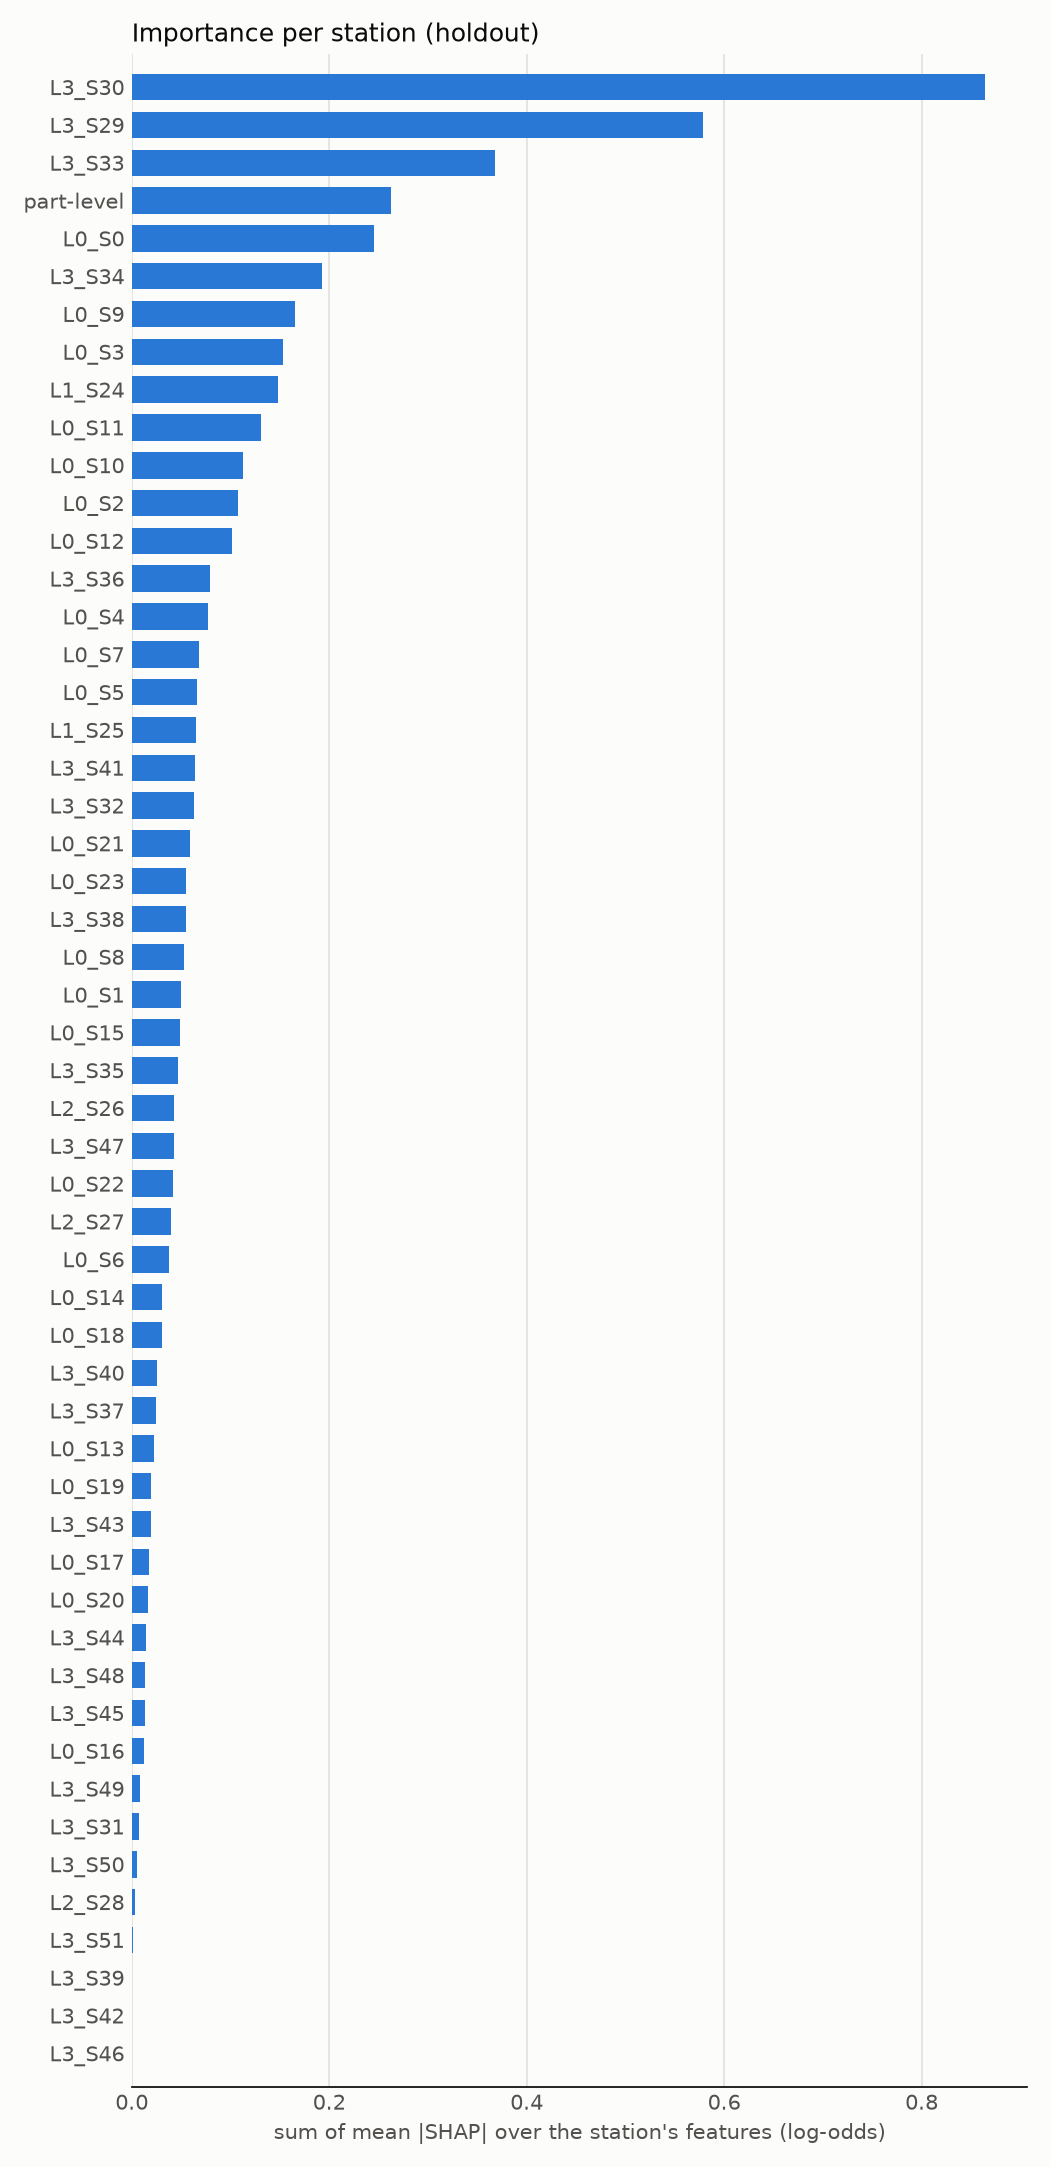
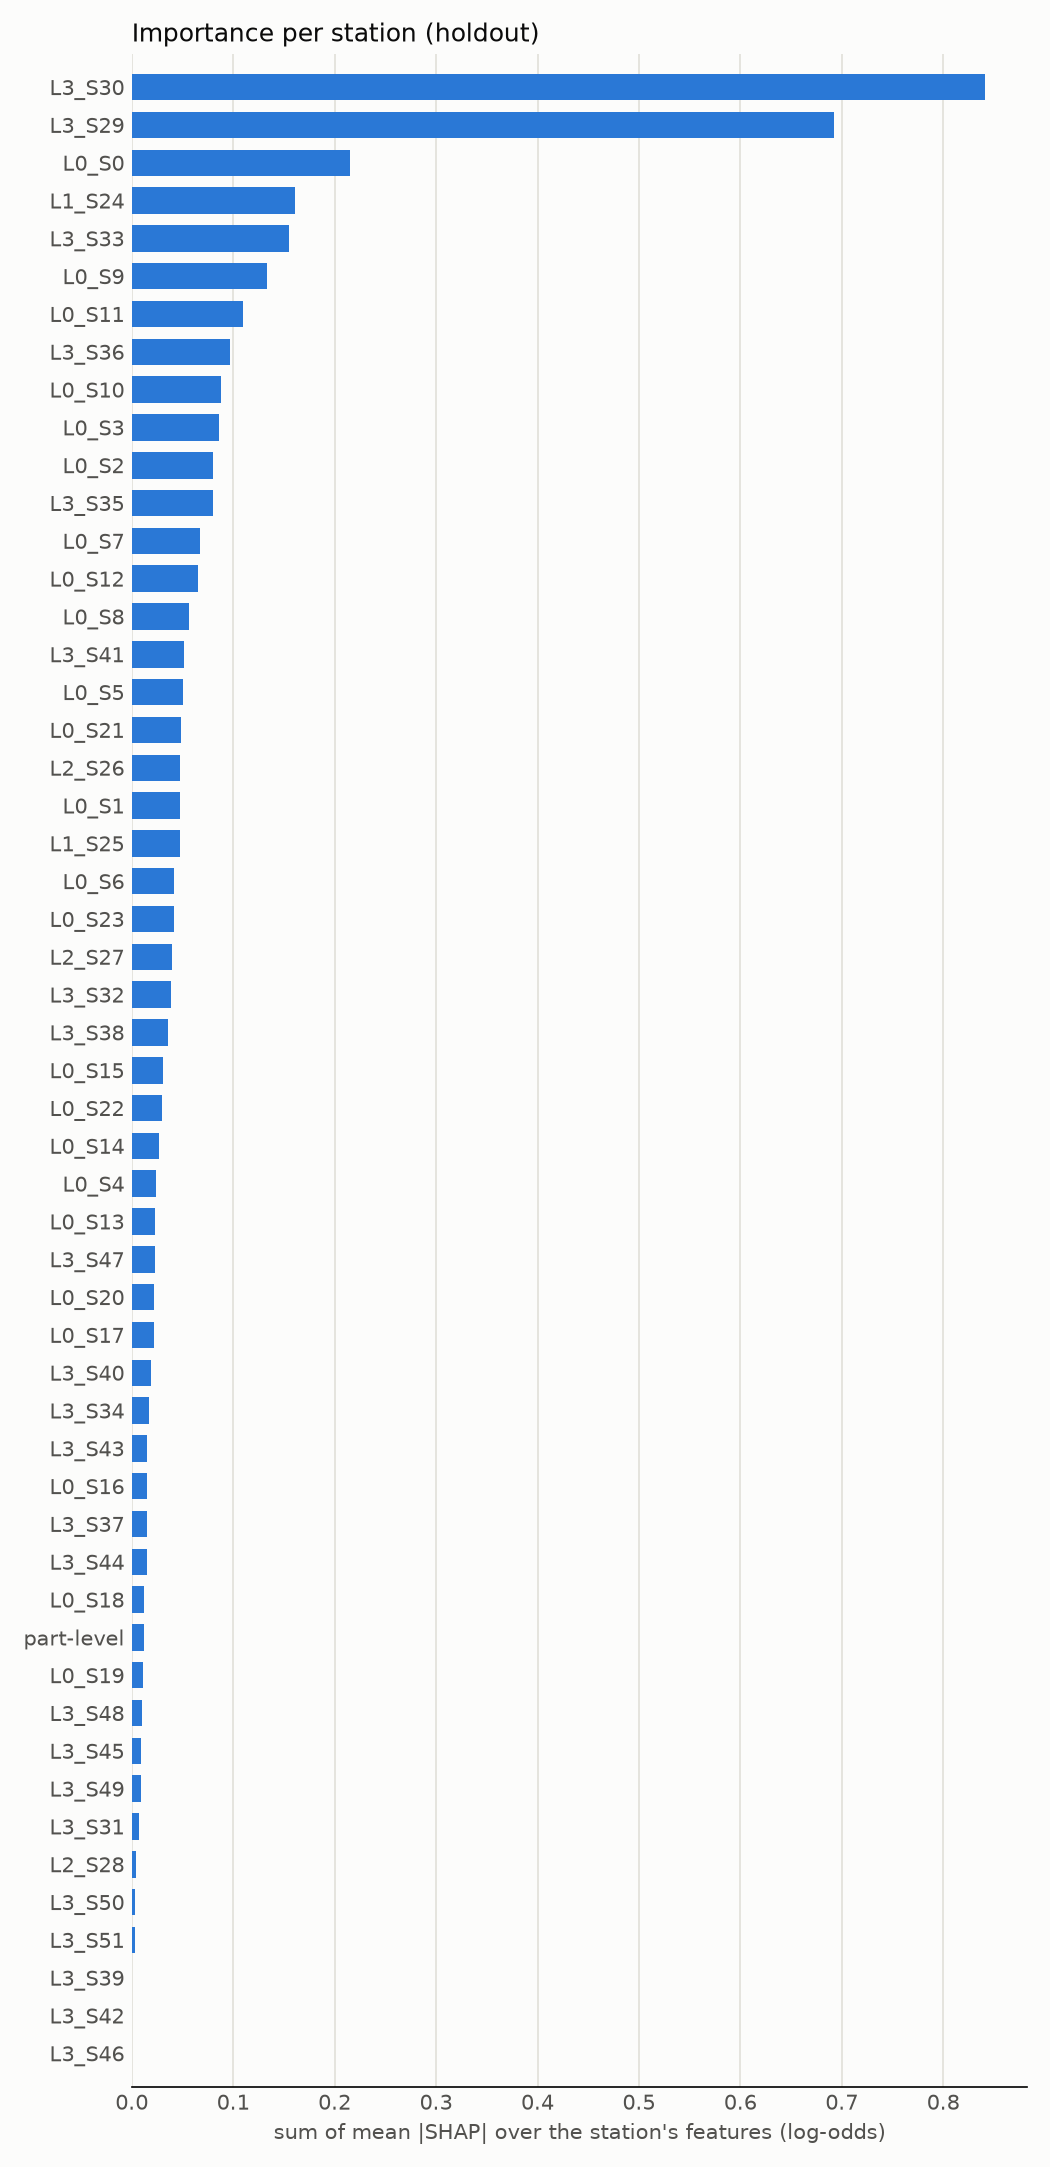
docs: add full-data and sample results with relative station times

diff --git a/README.md b/README.md
@@ -65,22 +65,28 @@ All commands work relative to the repository root. Outputs:
 
 ## Results
 
-From `reports/metrics.json` of `uv run bosch-xai prepare --sample && uv run bosch-xai train`
-(seed 42; 124,565 parts: all 6,879 failures plus 10% of the other parts; 1,075 features):
+From `reports/metrics.json` of two runs with seed 42 and 1,073 features: the full data
+(`prepare`) and the sample (`prepare --sample`: all 6,879 failures plus 10% of the other parts).
 
-| split | parts | failures | MCC | PR-AUC | ROC-AUC | flagged |
+| data | split | parts | failures | MCC | PR-AUC | ROC-AUC |
 |---|---|---|---|---|---|---|
-| out-of-fold, 5-fold CV on the earlier 80% | 99,652 | 5,896 | 0.405 | 0.347 | 0.726 | 1,935 |
-| time holdout, latest 20% | 24,913 | 983 | 0.218 | 0.112 | 0.567 | 206 |
+| full | out-of-fold, 5-fold CV on the earlier 80% | 946,998 | 5,915 | 0.246 | 0.144 | 0.724 |
+| full | time holdout, latest 20% | 236,749 | 964 | 0.036 | 0.013 | 0.565 |
+| sample | out-of-fold, 5-fold CV on the earlier 80% | 99,652 | 5,896 | 0.399 | 0.337 | 0.722 |
+| sample | time holdout, latest 20% | 24,913 | 983 | 0.222 | 0.109 | 0.572 |
 
-The threshold that maximises out-of-fold MCC is 0.330; it is applied unchanged to the holdout.
-The model loses much of its ranking ability on later production (ROC-AUC 0.73 to 0.57), and
-the failure rate also drops from 5.9% to 3.9%, so the process drifts over time. What transfers
-is one failure pattern: the two slices driven by stations L3_S32 and L3_S33 reach 50% to 61%
-precision on the holdout, while the other slices are driven by timestamps and have failure
-rates of 5% to 8% (`reports/slices.md`). The full data has not been run yet; sampling raises
-the failure rate about tenfold, so these numbers are not comparable to the competition
-leaderboard.
+The MCC-optimal threshold on out-of-fold predictions is 0.182 (full) and 0.273 (sample); each is
+applied unchanged to its holdout.
+
+- **Shuffled CV and later production disagree.** Out-of-fold ROC-AUC is 0.72, but on the latest
+  20% of parts it drops to 0.57, and the failure rate falls from 0.62% to 0.41%: the process
+  drifts, and most of what the model learns does not carry over.
+- **One failure pattern does carry over.** On the full data the threshold flags 289 holdout parts;
+  20 of them fail (6.9%, 17 times the holdout failure rate), and all 20 lie in the slice driven
+  by stations L3_S32 and L3_S33 (`reports/slices.md`). The same slices reach 50% to 51%
+  precision on the sample; the difference is the tenfold failure rate there, not the model.
+- Sample metrics are therefore not comparable to the full data or to the competition
+  leaderboard.
 
 ## Figures
 
@@ -91,18 +97,14 @@ Generated by `explain` from the holdout set:
 
 ## Resource use
 
-Measured with `/usr/bin/time -l` on an Apple M4 Pro (14 cores, 24 GB RAM). The `--sample` column
-is the real run above. The full-size column comes from a **synthetic stand-in** with the real
-row count, column naming and mostly empty cells (11 GB of CSV, about twice the real numeric and
-date files); it shows the memory profile, not a result, and real training needs more boosting
-rounds than the synthetic data did.
+Measured with `/usr/bin/time -l` on an Apple M4 Pro (14 cores, 24 GB RAM), real data:
 
-| step | `--sample`, real data | full size, synthetic |
+| step | `--sample` | full |
 |---|---|---|
-| download | 680 MB bundle, 5 GB of numeric and date CSV after extraction | - |
-| prepare | 9 s, 6.6 GB | 12 s, 8.5 GB |
-| train | 86 s, 4.8 GB | 2 min, 8.3 GB |
-| explain | 9 s, 2.5 GB | 13 s, 8.8 GB |
+| download | 680 MB bundle, 5 GB of numeric and date CSV after extraction | same |
+| prepare | 9 s, 6.0 GB | 15 s, 5.4 GB |
+| train | 62 s, 4.8 GB | 5.6 min, 7.2 GB |
+| explain | 7 s, 2.5 GB | 71 s, 8.3 GB |
 
 ## Design decisions
 
@@ -110,14 +112,16 @@ rounds than the synthetic data did.
   2,140 columns are empty (measured on the first 200,000 parts). Parsing it costs much memory and time for little
   expected signal, so it is downloaded (as specified) but not used. It would be a separate
   experiment.
-- **One timestamp per station.** Checked on the first 200,000 parts: in 50 of the 52 stations all
-  date columns of a visit hold the same value, so the row-wise minimum loses nothing (it also
-  ignores missing entries). The exceptions are L1_S24 (median spread 0.03 time units, small
-  against a median part duration of 3.7) and L1_S25 (median 0.12, but 8.6 at the 90th
-  percentile); there the minimum keeps the entry time and drops the time spent inside the
-  station. From the station times
-  come the part's start, end and duration and one visited flag per station: the route through the
-  line is information in itself.
+- **One timestamp per station, relative to the part's start.** Checked on the first 200,000
+  parts: in 50 of the 52 stations all date columns of a visit hold the same value, so the
+  row-wise minimum loses nothing (it also ignores missing entries). The exceptions are L1_S24
+  (median spread 0.03 time units, small against a median part duration of 3.7) and L1_S25
+  (median 0.12, but 8.6 at the 90th percentile); there the minimum keeps the entry time and drops
+  the time spent inside the station. Features are the station times relative to the part's first
+  station (`L3_S32_elapsed`), the part's duration and one visited flag per station. Absolute
+  timestamps only say when a part was made: in a first sample run they ranked highest on the
+  holdout (`start_time` first) and did not help it (holdout ROC-AUC 0.567 with them, 0.572
+  without). `start_time` is kept only to order the time split.
 - **No "magic" features.** Features built from neighbouring Ids (row order) were strong in the
   competition but describe how the data was exported, not the physics of a part. They are left out
   on purpose so that every explanation refers to measurements, times or routes.
@@ -166,9 +170,9 @@ rounds than the synthetic data did.
 - SHAP explains the model, not the process. A high SHAP value says the model relies on a feature,
   not that the feature causes failures; correlated features share credit in a way that can look
   arbitrary.
-- Absolute timestamps (`start_time` first of all) rank high on the holdout although every
-  holdout part lies after the training period; their SHAP values describe when a part was made,
-  not how.
+- The model transfers poorly to later production (time holdout ROC-AUC 0.565); out-of-fold
+  scores overstate what to expect in operation. Explanations of the holdout describe the model,
+  and only the L3_S32/S33 pattern is backed by actual hits.
 - Station importance adds up features, so stations with many measurements can look more
   important than stations with a few strong ones.
 - k = 5 slices is a fixed, readable choice, not a tuned one; slices are descriptive.

diff --git a/reports/slices.md b/reports/slices.md
@@ -1,39 +1,39 @@
 # Failure slices (holdout)
 
-High-risk parts (score >= 0.330 or top 2%) clustered by
+High-risk parts (score >= 0.182 or top 2%) clustered by
 their SHAP vectors. `mean_shap` is the mean log-odds contribution within the slice.
 
 ## Slice 1
 
-- parts: 165, failures: 81, failure rate: 0.4909 (all high-risk parts: 0.2565)
-- flagged by threshold: 163, precision: 0.4969
-- top features: L3_S32_visited (+0.645), L3_S32_F3850 (+0.621), L3_S32_time (+0.62), L3_S33_F3865 (+0.329), L3_S33_F3857 (+0.299)
-- top stations: L3_S32 (+1.887), L3_S33 (+1.225), L3_S34 (+0.345)
+- parts: 2610, failures: 10, failure rate: 0.0038 (all high-risk parts: 0.0243)
+- flagged by threshold: 4, precision: 0.0
+- top features: L0_S7_F142 (+0.092), L0_S7_F138 (+0.062), L3_S33_F3865 (+0.054), L0_S0_F10 (+0.053), L0_S3_F100 (+0.053)
+- top stations: L3_S30 (+0.34), L0_S0 (+0.197), L3_S29 (+0.162)
 
 ## Slice 2
 
-- parts: 117, failures: 7, failure rate: 0.0598 (all high-risk parts: 0.2565)
-- flagged by threshold: 4, precision: 0.0
-- top features: L0_S11_time (+0.205), L0_S8_time (+0.162), L3_S30_F3704 (+0.114), L0_S0_time (+0.107), L3_S30_F3644 (+0.089)
-- top stations: L3_S30 (+0.696), L0_S11 (+0.47), L0_S0 (+0.269)
+- parts: 807, failures: 75, failure rate: 0.0929 (all high-risk parts: 0.0243)
+- flagged by threshold: 256, precision: 0.0781
+- top features: L3_S32_F3850 (+1.256), L3_S32_elapsed (+0.639), L3_S34_F3882 (+0.422), L3_S33_F3865 (+0.386), L3_S32_visited (+0.208)
+- top stations: L3_S32 (+2.103), L3_S33 (+1.094), L3_S34 (+0.443)
 
 ## Slice 3
 
-- parts: 88, failures: 7, failure rate: 0.0795 (all high-risk parts: 0.2565)
+- parts: 539, failures: 1, failure rate: 0.0019 (all high-risk parts: 0.0243)
 - flagged by threshold: 1, precision: 0.0
-- top features: L0_S15_time (+0.134), L0_S18_time (+0.126), L0_S12_time (+0.093), L3_S30_time (+0.055), L0_S12_F330 (+0.05)
-- top stations: L0_S12 (+0.267), L3_S29 (+0.228), L3_S30 (+0.219)
+- top features: L0_S0_F2 (+0.738), L3_S29_F3412 (+0.283), L0_S7_F142 (+0.148), L0_S1_F24 (+0.134), L3_S29_F3436 (+0.085)
+- top stations: L0_S0 (+0.693), L3_S29 (+0.385), L3_S30 (+0.262)
 
 ## Slice 4
 
-- parts: 74, failures: 4, failure rate: 0.0541 (all high-risk parts: 0.2565)
-- flagged by threshold: 0, precision: None
-- top features: L0_S8_time (+0.093), L0_S4_time (+0.089), L3_S30_time (+0.074), L3_S33_F3865 (+0.062), L3_S30_F3624 (+0.062)
-- top stations: L3_S30 (+0.625), L3_S29 (+0.259), L0_S0 (+0.22)
+- parts: 421, failures: 0, failure rate: 0.0 (all high-risk parts: 0.0243)
+- flagged by threshold: 8, precision: 0.0
+- top features: L2_S27_F3166 (+0.765), duration (+0.523), L3_S29_F3412 (+0.459), L2_S27_F3129 (+0.17), L0_S0_F10 (+0.113)
+- top stations: L2_S27 (+1.049), part-level (+0.523), L3_S29 (+0.386)
 
 ## Slice 5
 
-- parts: 55, failures: 29, failure rate: 0.5273 (all high-risk parts: 0.2565)
-- flagged by threshold: 38, precision: 0.6053
-- top features: L3_S32_visited (+0.578), L3_S32_F3850 (+0.533), L3_S32_time (+0.525), L3_S33_F3865 (+0.35), L3_S33_F3857 (+0.272)
-- top stations: L3_S32 (+1.636), L3_S33 (+1.204), L3_S30 (+0.154)
+- parts: 358, failures: 29, failure rate: 0.081 (all high-risk parts: 0.0243)
+- flagged by threshold: 20, precision: 0.0
+- top features: L3_S32_F3850 (+0.764), L3_S32_elapsed (+0.662), L3_S33_F3865 (+0.389), L3_S33_F3855 (+0.361), L3_S32_visited (+0.211)
+- top stations: L3_S32 (+1.637), L3_S33 (+1.252), L3_S38 (+0.052)
